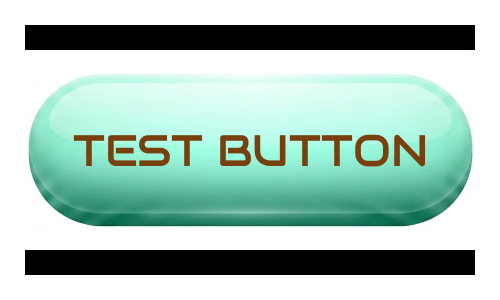
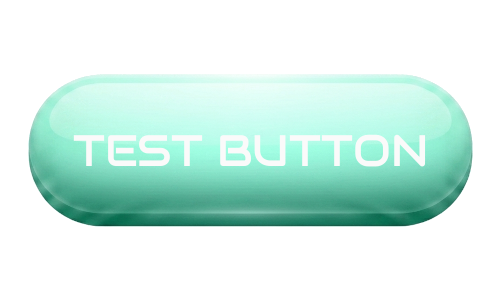
Buttons ready for publish. Work on certifications.

Changed region(s): [[0.03, 0.81, 0.96, 0.93], [0.03, 0.06, 0.96, 0.18], [0.15, 0.45, 0.87, 0.57]]

diff --git a/_certificates/moodleadmin.md b/_certificates/moodleadmin.md
@@ -11,12 +11,16 @@ author: Professional
 
 classes: wide
 
-#header:
-#  image: /assets/images/projects/sidescroller/statemachine/header.png
-#  caption: Image by Lucas Israel from [Pixabay](https://pixabay.com/)
-#  teaser: /assets/images/qualifications/certifications/Moodle_Admin_Basics.png
+header:
+  image: /assets/images/qualifications/certifications/header.png
+  teaser: /assets/images/qualifications/certifications/Moodle_Admin_Basics.png
+
+gallery_cert:
+  - image_path: /assets/images/qualifications/certifications/Moodle_Admin_Basics.png
+    alt: Moodle Admin Basics badge
+#[!image-left]({% include gallery id="gallery_cert" %})
 ---
-![image-right]({{ "/assets/images/qualifications/certifications/Moodle_Admin_Basics.png" | relative_url}}){: .align-right}
+
 ### Particulars ###
 **Issued:**
 3rd February 2026

diff --git a/_scroller/buttons.md b/_scroller/buttons.md
@@ -5,7 +5,7 @@ index: 1
 excerpt: Building a class for user interaction.
 permalink: /projects/scroller/button
 date: 2026-07-23
-last_modified_at: 2026-07-23T15:00+10:00
+last_modified_at: 2026-07-23T16:20+10:00
 show_date: true
 
 read_time: true
